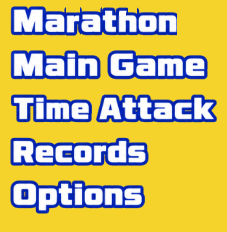
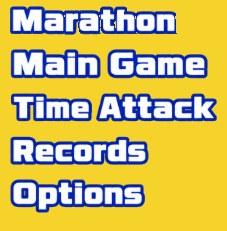
Marathon: tidy the lettering, and put the r where it belongs
The letters were cut at the middle of each gap, so every one carried half of its
neighbour's outline and letters from different words met at lumpy joins; they now come
away whole, through gen_ui_assets.split_letters, which was written for exactly this in
START. Laying one anti-aliased outline over another darkened every overlap into a bar
under the word, so they are placed by taking the greater alpha instead of compositing.

The r sat low because the mockup's words are not drawn to one ruler: the x-height letters
of Records, where the r comes from, are 16 px where Main Game's and Options' are 17, and
Main Game's M is 22 where the other words' ascenders are 21. Records draws its R and its d
the same height, so both rulers are levelled here.

Spacing is the art's own: how much daylight it leaves after each letter, measured off the
four words. It is not one number -- r overhangs to the right, and Records sets the letter
after it wider than the rest.

Claude-Session: https://claude.ai/code/session_01HFJZx7Km1EURsNb7BjbPov

diff --git a/native/gen_menu_marathon.py b/native/gen_menu_marathon.py
@@ -13,13 +13,16 @@ So MARATHON is built from the letters already in the picture. Every one is there
 
 There is no h in "Main Game", "Time Attack", "Records" or "Options". It is grafted: the
 ascender of k (Time Attack) above the shoulder and legs of n (Options). They agree -- both
-stems are 7 px of white at the same left edge, both baselines sit at the same row -- so the
+stems are 7 px of white at the same left edge, both baselines sit on the same row -- so the
 seam falls inside a straight stem and does not show.
 
-Letters are cut at the MIDDLE of the gap between their white faces, never at the edge of the
-ink: the blue outlines of neighbours touch, so a cut through the outline would shave one.
-Each letter therefore carries half of each gap, and butting the pieces back together
-reproduces the spacing of the original word.
+Neighbouring letters SHARE their blue outline, so a letter cannot be cut out with a straight
+slice: the first version cut at the middle of each gap, which left every letter half of its
+neighbour's outline and made the joins lumpy where letters from different words met. This
+uses gen_ui_assets.split_letters, written for the same problem in START: each letter comes
+away with a whole outline of its own. They are then set down with the spacing the mockup
+uses between its own letters -- 3 px of daylight between faces -- and their outlines overlap
+again, blue on identical blue, as they do in the words they came from.
 """
 
 import os
@@ -27,20 +30,23 @@ import os
 import numpy as np
 from PIL import Image
 
+from gen_ui_assets import split_letters
+
 HERE = os.path.dirname(os.path.abspath(__file__))
 PARTS = os.path.abspath(os.path.join(HERE, "..", "external", "ui", "menu", "parts"))
 OUT = os.path.join(PARTS, "item_marathon.png")
 CHECK = os.path.join(PARTS, "_marathon_check.png")
 
-WORDS = {                           # the item art, and what it says
-    "item_main_game": "Main Game",
-    "item_time_attack": "Time Attack",
+GAP = 3                             # px of daylight between faces, where the art does not say
+
+WORDS = {                           # the item art, and the letters in it (spaces have no face)
+    "item_main_game": "MainGame",
+    "item_time_attack": "TimeAttack",
     "item_records": "Records",
     "item_options": "Options",
 }
 
 # Where each letter of "Marathon" comes from: (item, index of the letter in that word).
-# Indices count letters only, spaces skipped.
 SOURCE = {
     "M": ("item_main_game", 0),
     "a": ("item_main_game", 1),
@@ -51,108 +57,221 @@ SOURCE = {
     "k": ("item_time_attack", 9),   # only for the h's ascender
 }
 
+_CACHE = {}
 
-def face(a):
-    """The white face of the lettering: opaque and bright. (The outline is a dark blue.)"""
+
+def face(img):
+    """The white face of the lettering, as a mask. (The outline is a dark blue.)"""
+    a = np.array(img.convert("RGBA")).astype(int)
     return (a[..., 3] > 120) & (a[..., :3].min(axis=2) > 150)
 
 
+def face_box(img):
+    """(left, top, right, bottom) of the face inside a letter tile, inclusive."""
+    f = face(img)
+    ys, xs = np.where(f.any(axis=1))[0], np.where(f.any(axis=0))[0]
+    return xs[0], ys[0], xs[-1], ys[-1]
+
+
 def cut(name):
-    """Every letter of one item, as its own RGBA tile, cut at the middles of the gaps."""
-    im = Image.open(os.path.join(PARTS, name + ".png")).convert("RGBA")
-    a = np.array(im).astype(int)
-    cols = face(a).any(axis=0)
-
-    runs, x = [], 0
-    while x < len(cols):
-        if cols[x]:
-            s = x
-            while x < len(cols) and cols[x]:
-                x += 1
-            runs.append((s, x - 1))
-        else:
-            x += 1
-
-    edges = [0]
-    for i in range(len(runs) - 1):
-        edges.append((runs[i][1] + runs[i + 1][0] + 1) // 2)
-    edges.append(im.width)
-    return [im.crop((edges[i], 0, edges[i + 1], im.height)) for i in range(len(runs))], runs
+    """[(tile, x, y)] for one item: each letter with a whole outline, and where it sat."""
+    if name not in _CACHE:
+        img = Image.open(os.path.join(PARTS, name + ".png")).convert("RGBA")
+        _CACHE[name] = split_letters(img, len(WORDS[name]))
+    return _CACHE[name]
 
 
-TILES, RUNS = {}, {}
-for name in WORDS:
-    TILES[name], RUNS[name] = cut(name)
+def letters(name):
+    return [tile for tile, _x, _y in cut(name)]
+
+
+def origins(name):
+    return [x for _tile, x, _y in cut(name)]
 
 
 def letter(ch):
     name, i = SOURCE[ch]
-    return TILES[name][i]
-
-
-def baseline(tile):
-    """The last row with any white in it: every letter of a line sits on this."""
-    rows = np.where(face(np.array(tile).astype(int)).any(axis=1))[0]
-    return rows[-1]
+    return letters(name)[i]
 
 
 def graft_h():
-    """k's ascender over n's shoulder: the h the mockup never drew.
-
-    Both letters were drawn on the same line, so their baselines are the same row and no
-    shifting up or down is needed -- the rows above n's x-height are simply empty, and the
-    ascender goes in them. The seam is a row or two BELOW the x-height, so the two stems
-    overlap rather than meet, and n is composited last so its shoulder draws over the join.
-    """
+    """k's ascender over n's shoulder: the h the mockup never drew."""
     n, k = letter("n"), letter("k")
-    fn, fk = face(np.array(n).astype(int)), face(np.array(k).astype(int))
+    fn, fk = face(n), face(k)
+    nl, nt, _nr, nb = face_box(n)
+    kl, kt, _kr, kb = face_box(k)
 
-    n_rows, k_rows = np.where(fn.any(axis=1))[0], np.where(fk.any(axis=1))[0]
-    assert n_rows[-1] == k_rows[-1], "n and k do not share a baseline: %d vs %d" % (n_rows[-1], k_rows[-1])
-    n_top, k_top = n_rows[0], k_rows[0]
+    # Line the two stems up: same left edge, same baseline.
+    dx, dy = nl - kl, nb - kb
 
-    # k's stem, and only the stem: the columns its white fills at the very top. Lower down,
-    # the arm joins on the right; the seam is taken above where that begins.
-    stem = np.where(fk[k_top + 1])[0]
-    arm = next((y for y in range(k_top + 1, k_rows[-1]) if len(np.where(fk[y])[0]) > len(stem) + 1),
-               k_rows[-1])
-    seam = min(arm, n_top + 2)          # below the x-height, above the arm
-    stem_right = stem[-1] + 3           # the stem's white, plus its 2 px of outline
+    # k's stem, and only the stem: the columns its face fills at the very top. Lower down the
+    # arm joins on the right, and the seam is taken above that.
+    stem = np.where(fk[kt + 1])[0]
+    arm = next((y for y in range(kt + 1, kb) if len(np.where(fk[y])[0]) > len(stem) + 1), kb)
+    seam = min(arm, (nt - dy) + 2)          # below n's x-height, above k's arm
+    stem_right = stem[-1] + 4               # the stem's face, and its outline
 
-    n_left = np.where(fn[n_rows[-1]])[0][0]     # the left leg, at the baseline
-    k_left = stem[0]
-    dx = n_left - k_left
+    lift = max(0, -dy + kt - nt)            # room above n for the ascender
+    out = Image.new("RGBA", (n.width, n.height + lift), (0, 0, 0, 0))
+    out.alpha_composite(k.crop((0, 0, stem_right, seam)), (dx, dy + lift))
+    out.alpha_composite(n, (0, lift))
 
-    out = Image.new("RGBA", (n.width, n.height), (0, 0, 0, 0))
-    out.alpha_composite(k.crop((0, 0, stem_right, seam)), (dx, 0))
-    out.alpha_composite(n, (0, 0))
-
-    # n carries its own outline ABOVE the shoulder, and that outline now lies across the
-    # stem as a blue band. Lay the stem's white back over it -- the face is a flat white, so
-    # a piece of k's stem is indistinguishable from a drawn rectangle.
-    # Only the join, not the whole stem: repainting the ascender's top would flatten the
-    # anti-aliasing the artist's own letter has there.
-    join_top = max(k_top + 1, n_top - 4)
+    # n carries its own outline ABOVE the shoulder, and that outline now lies across the stem
+    # as a blue band. Lay the stem's face back over it -- only at the join, since repainting
+    # the whole stem would flatten the anti-aliasing on the ascender's top.
+    join_top = max(kt + 1, (nt - dy) - 4)
     mask = np.zeros(fk.shape, bool)
     mask[join_top:seam, stem[0]:stem[-1] + 1] = fk[join_top:seam, stem[0]:stem[-1] + 1]
-    white = np.array(k).astype(int)[..., :3][fk].max(axis=0)    # this art's face colour
+    white = np.array(k).astype(int)[..., :3][fk].max(axis=0)
     px = np.zeros(fk.shape + (4,), np.uint8)
     px[mask] = list(white) + [255]
-    out.alpha_composite(Image.fromarray(px, "RGBA").crop((0, 0, stem_right, seam)), (dx, 0))
+    out.alpha_composite(Image.fromarray(px, "RGBA").crop((0, 0, stem_right, seam)), (dx, dy + lift))
     return out
 
 
-def compose(word, gap_fix=0):
-    tiles = [graft_h() if ch == "h" else letter(ch) for ch in word]
-    base = max(baseline(t) for t in tiles)
-    height = max(t.height + (base - baseline(t)) for t in tiles)
-    width = sum(t.width for t in tiles) + gap_fix * (len(tiles) - 1)
-    out = Image.new("RGBA", (width, height), (0, 0, 0, 0))
-    x = 0
-    for t in tiles:
-        out.alpha_composite(t, (x, base - baseline(t)))
-        x += t.width + gap_fix
-    return out.crop(out.getbbox())
+def match_xheight(tiles, word):
+    """Put every letter on the same two rulers: one x-height, one for the tall ones.
+
+    The mockup's four words were not drawn to one: the x-height letters of "Records" are
+    16 px tall and those of "Main Game" and "Options" are 17, and Main Game's capital M is
+    22 where the ascenders of the other words are 21. Marathon takes letters from all of
+    them, so its r came out a pixel short -- sitting on the baseline with its top below its
+    neighbours', which reads as dropped -- and its M a pixel proud.
+
+    "Records" has both a capital and an ascender, R and d, and draws them the same height,
+    so the tall letters here are levelled too.
+
+    A pixel in sixteen, nearest-neighbour, on art this blocky: it does not show.
+    """
+    heights = [face_box(t)[3] - face_box(t)[1] + 1 for t in tiles]
+    big = max(heights)
+    groups = ([h for h in heights if h >= big * 0.9], [h for h in heights if h < big * 0.9])
+    targets = [max(set(g), key=g.count) if g else None for g in groups]
+
+    out = []
+    for t, h in zip(tiles, heights):
+        target = targets[0] if h >= big * 0.9 else targets[1]
+        if target is None or h == target:
+            out.append(t)
+            continue
+        # Scaling the TILE by the face's ratio overshoots -- the tile is the face plus its
+        # outline, and the outline scales too. Try the heights either side of the estimate
+        # and take the one whose FACE comes out the size asked for.
+        guess = int(round(t.height * float(target) / h))
+        best = None
+        for th in range(guess - 2, guess + 3):
+            if th < 1:
+                continue
+            got = t.resize((t.width, th), Image.NEAREST)
+            b = face_box(got)
+            err = abs((b[3] - b[1] + 1) - target)
+            if best is None or err < best[0]:
+                best = (err, got)
+        out.append(best[1])
+    return out
+
+
+def row_edges(mask):
+    """Per row, the leftmost and rightmost face pixel (or None for an empty row)."""
+    out = []
+    for y in range(mask.shape[0]):
+        xs = np.where(mask[y])[0]
+        out.append((xs[0], xs[-1]) if len(xs) else None)
+    return out
+
+
+def kerning():
+    """How much daylight the artist left after each letter, measured off the drawn words.
+
+    Not one number for every pair: r overhangs to the right at the top, and in "Records"
+    the d after it is set 7 px clear, where the other pairs are 2 to 4. Spacing every pair
+    the same crowded the r badly -- its arm nearly touched the a that follows it.
+    """
+    after = {}
+    for name, word in WORDS.items():
+        tiles = letters(name)
+        boxes = [face_box(t) for t in tiles]
+        base = [b[3] for b in boxes]
+        ox = origins(name)              # where each letter sat in the word it came from
+        for i in range(len(tiles) - 1):
+            a, b = np.array(face(tiles[i])), np.array(face(tiles[i + 1]))
+            ea, eb = row_edges(a), row_edges(b)
+            # line the two up on their baselines, and on the x the word put them at
+            dy = base[i] - base[i + 1]
+            dx = ox[i + 1] - ox[i]
+            gaps = []
+            for y in range(len(ea)):
+                yy = y - dy
+                if ea[y] is None or yy < 0 or yy >= len(eb) or eb[yy] is None:
+                    continue
+                gaps.append((eb[yy][0] + dx) - ea[y][1] - 1)
+            if gaps and min(gaps) < 10:         # 10 and over is a word space, not a letter gap
+                after.setdefault(word[i], []).append(min(gaps))
+    return {ch: int(round(sorted(v)[len(v) // 2])) for ch, v in after.items()}
+
+
+def compose(word):
+    """The letters set down left to right on one baseline, each as close to the last as the
+    art allows: the narrowest row-by-row daylight between two faces is what is held to, not
+    the distance between their bounding boxes. Boxes were the first try, and they put the
+    letter after r three pixels from the TIP OF ITS ARM, which is nothing at all lower down.
+    Their outlines overlap, which is how the drawn words are made."""
+    tiles = match_xheight([graft_h() if ch == "h" else letter(ch) for ch in word], word)
+    boxes = [face_box(t) for t in tiles]
+    kern = kerning()
+
+    baseline = max(b[3] for b in boxes)
+    height = max(t.height + (baseline - b[3]) for t, b in zip(tiles, boxes))
+    edges = [row_edges(face(t)) for t in tiles]
+
+    # Every letter sits on the baseline, so a row of the word is (row in tile) + its lift.
+    lifts = [baseline - b[3] for b in boxes]
+    xs = [0]
+    far = {}                                    # row of the word -> rightmost face pixel so far
+    for y, e in enumerate(edges[0]):
+        if e is not None:
+            far[y + lifts[0]] = e[1] + xs[0]
+    far_col = boxes[0][2]                       # rightmost face pixel of the word so far, any row
+    for i in range(1, len(tiles)):
+        want = kern.get(word[i - 1], GAP)
+        # Two rules, and the looser wins. Row by row, so a letter may tuck under an
+        # overhang; and column-wise, because r's arm reaches out diagonally and the row
+        # rule alone let the next letter come within a pixel of its tip, which the word it
+        # was cut from does not do.
+        need = far_col + 1 + want - boxes[i][0]
+        for y, e in enumerate(edges[i]):
+            if e is None:
+                continue
+            row = y + lifts[i]
+            if row in far:
+                need = max(need, far[row] + 1 + want - e[0])
+        xs.append(need)
+        for y, e in enumerate(edges[i]):
+            if e is not None:
+                row = y + lifts[i]
+                far[row] = max(far.get(row, -1), e[1] + need)
+        far_col = max(far_col, boxes[i][2] + need)
+
+    # A tile starts to the left of its face by the width of its outline, so shift the line
+    # so nothing falls off the left of the picture.
+    shift = -min(xs)
+    xs = [x + shift for x in xs]
+    width = max(x + t.width for x, t in zip(xs, tiles))
+
+    # Letters are laid down by taking the GREATER alpha, not by compositing one over the
+    # other. Their outlines overlap, and those outlines are anti-aliased: drawing a half-
+    # transparent blue edge over another half-transparent blue edge makes a darker, harder
+    # line, which showed as a bar running under the whole word. Taking the greater alpha
+    # leaves each letter's own edge as it was drawn.
+    out = np.zeros((height, width, 4), np.uint8)
+    for t, b, x in zip(tiles, boxes, xs):
+        y = baseline - b[3]
+        tile = np.array(t).astype(np.uint8)
+        patch = out[y:y + t.height, x:x + t.width]
+        take = tile[..., 3] > patch[..., 3]
+        patch[take] = tile[take]
+    img = Image.fromarray(out, "RGBA")
+    return img.crop(img.getbbox())
 
 
 if __name__ == "__main__":
